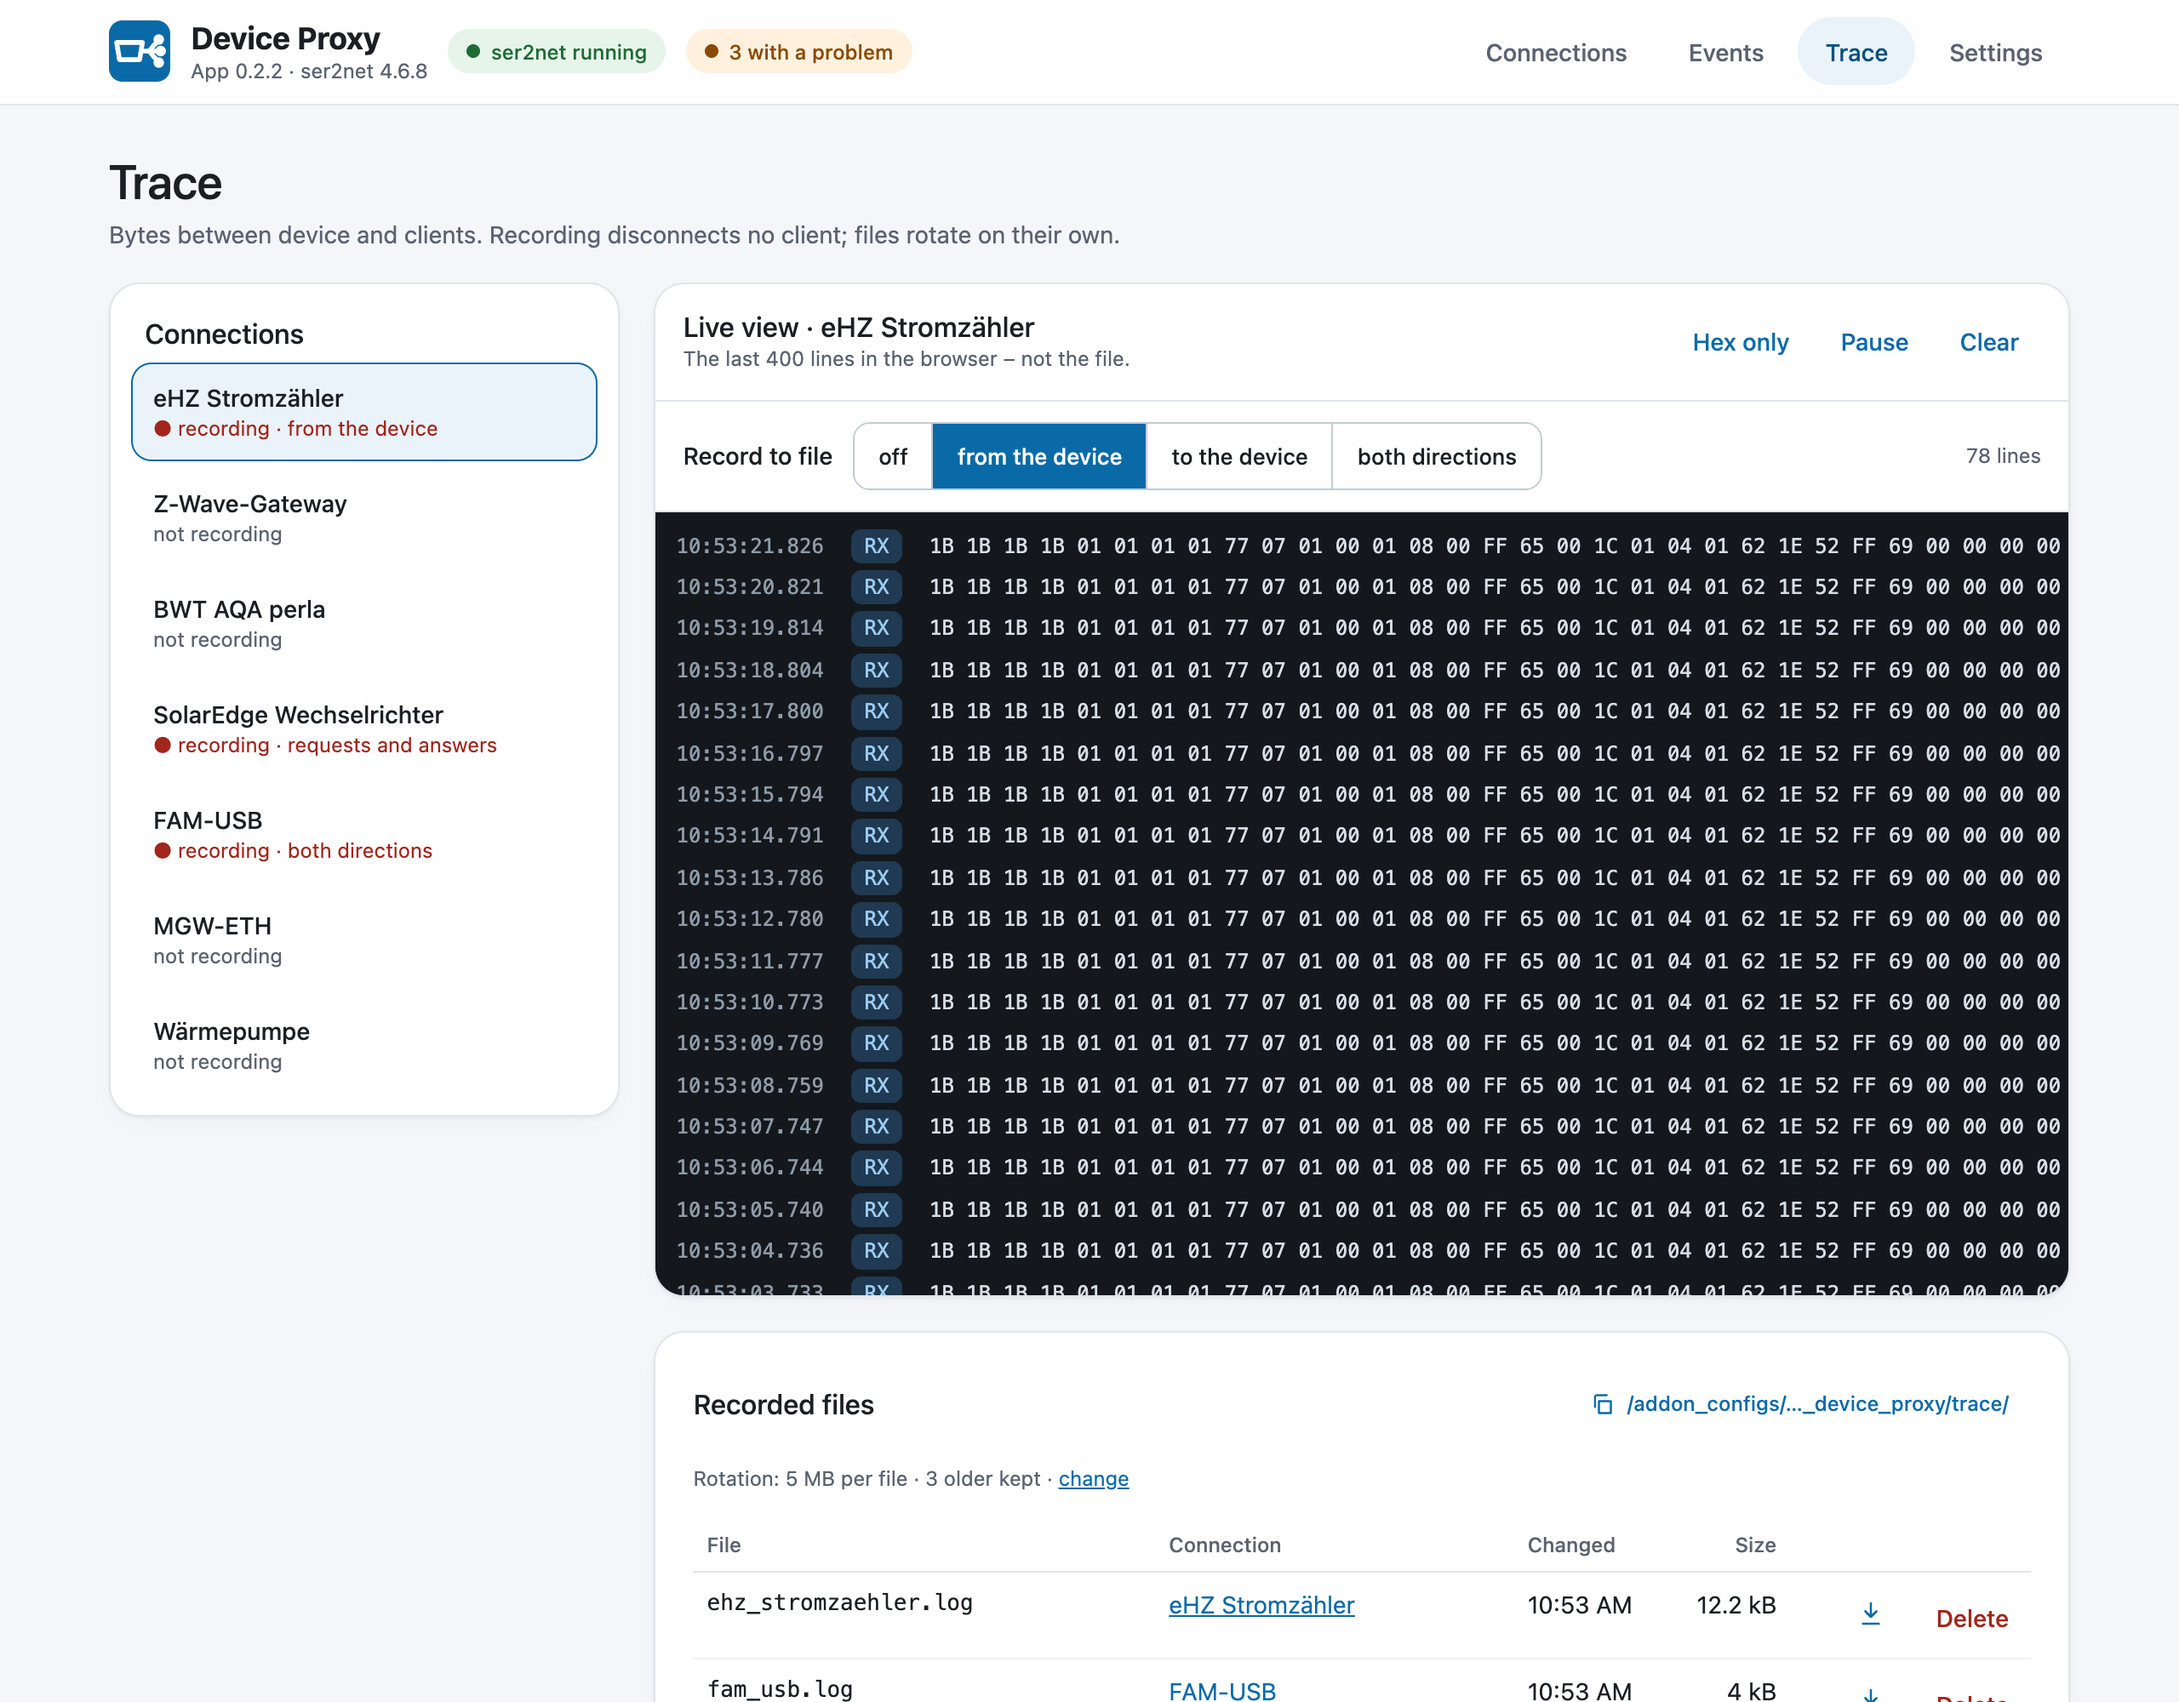
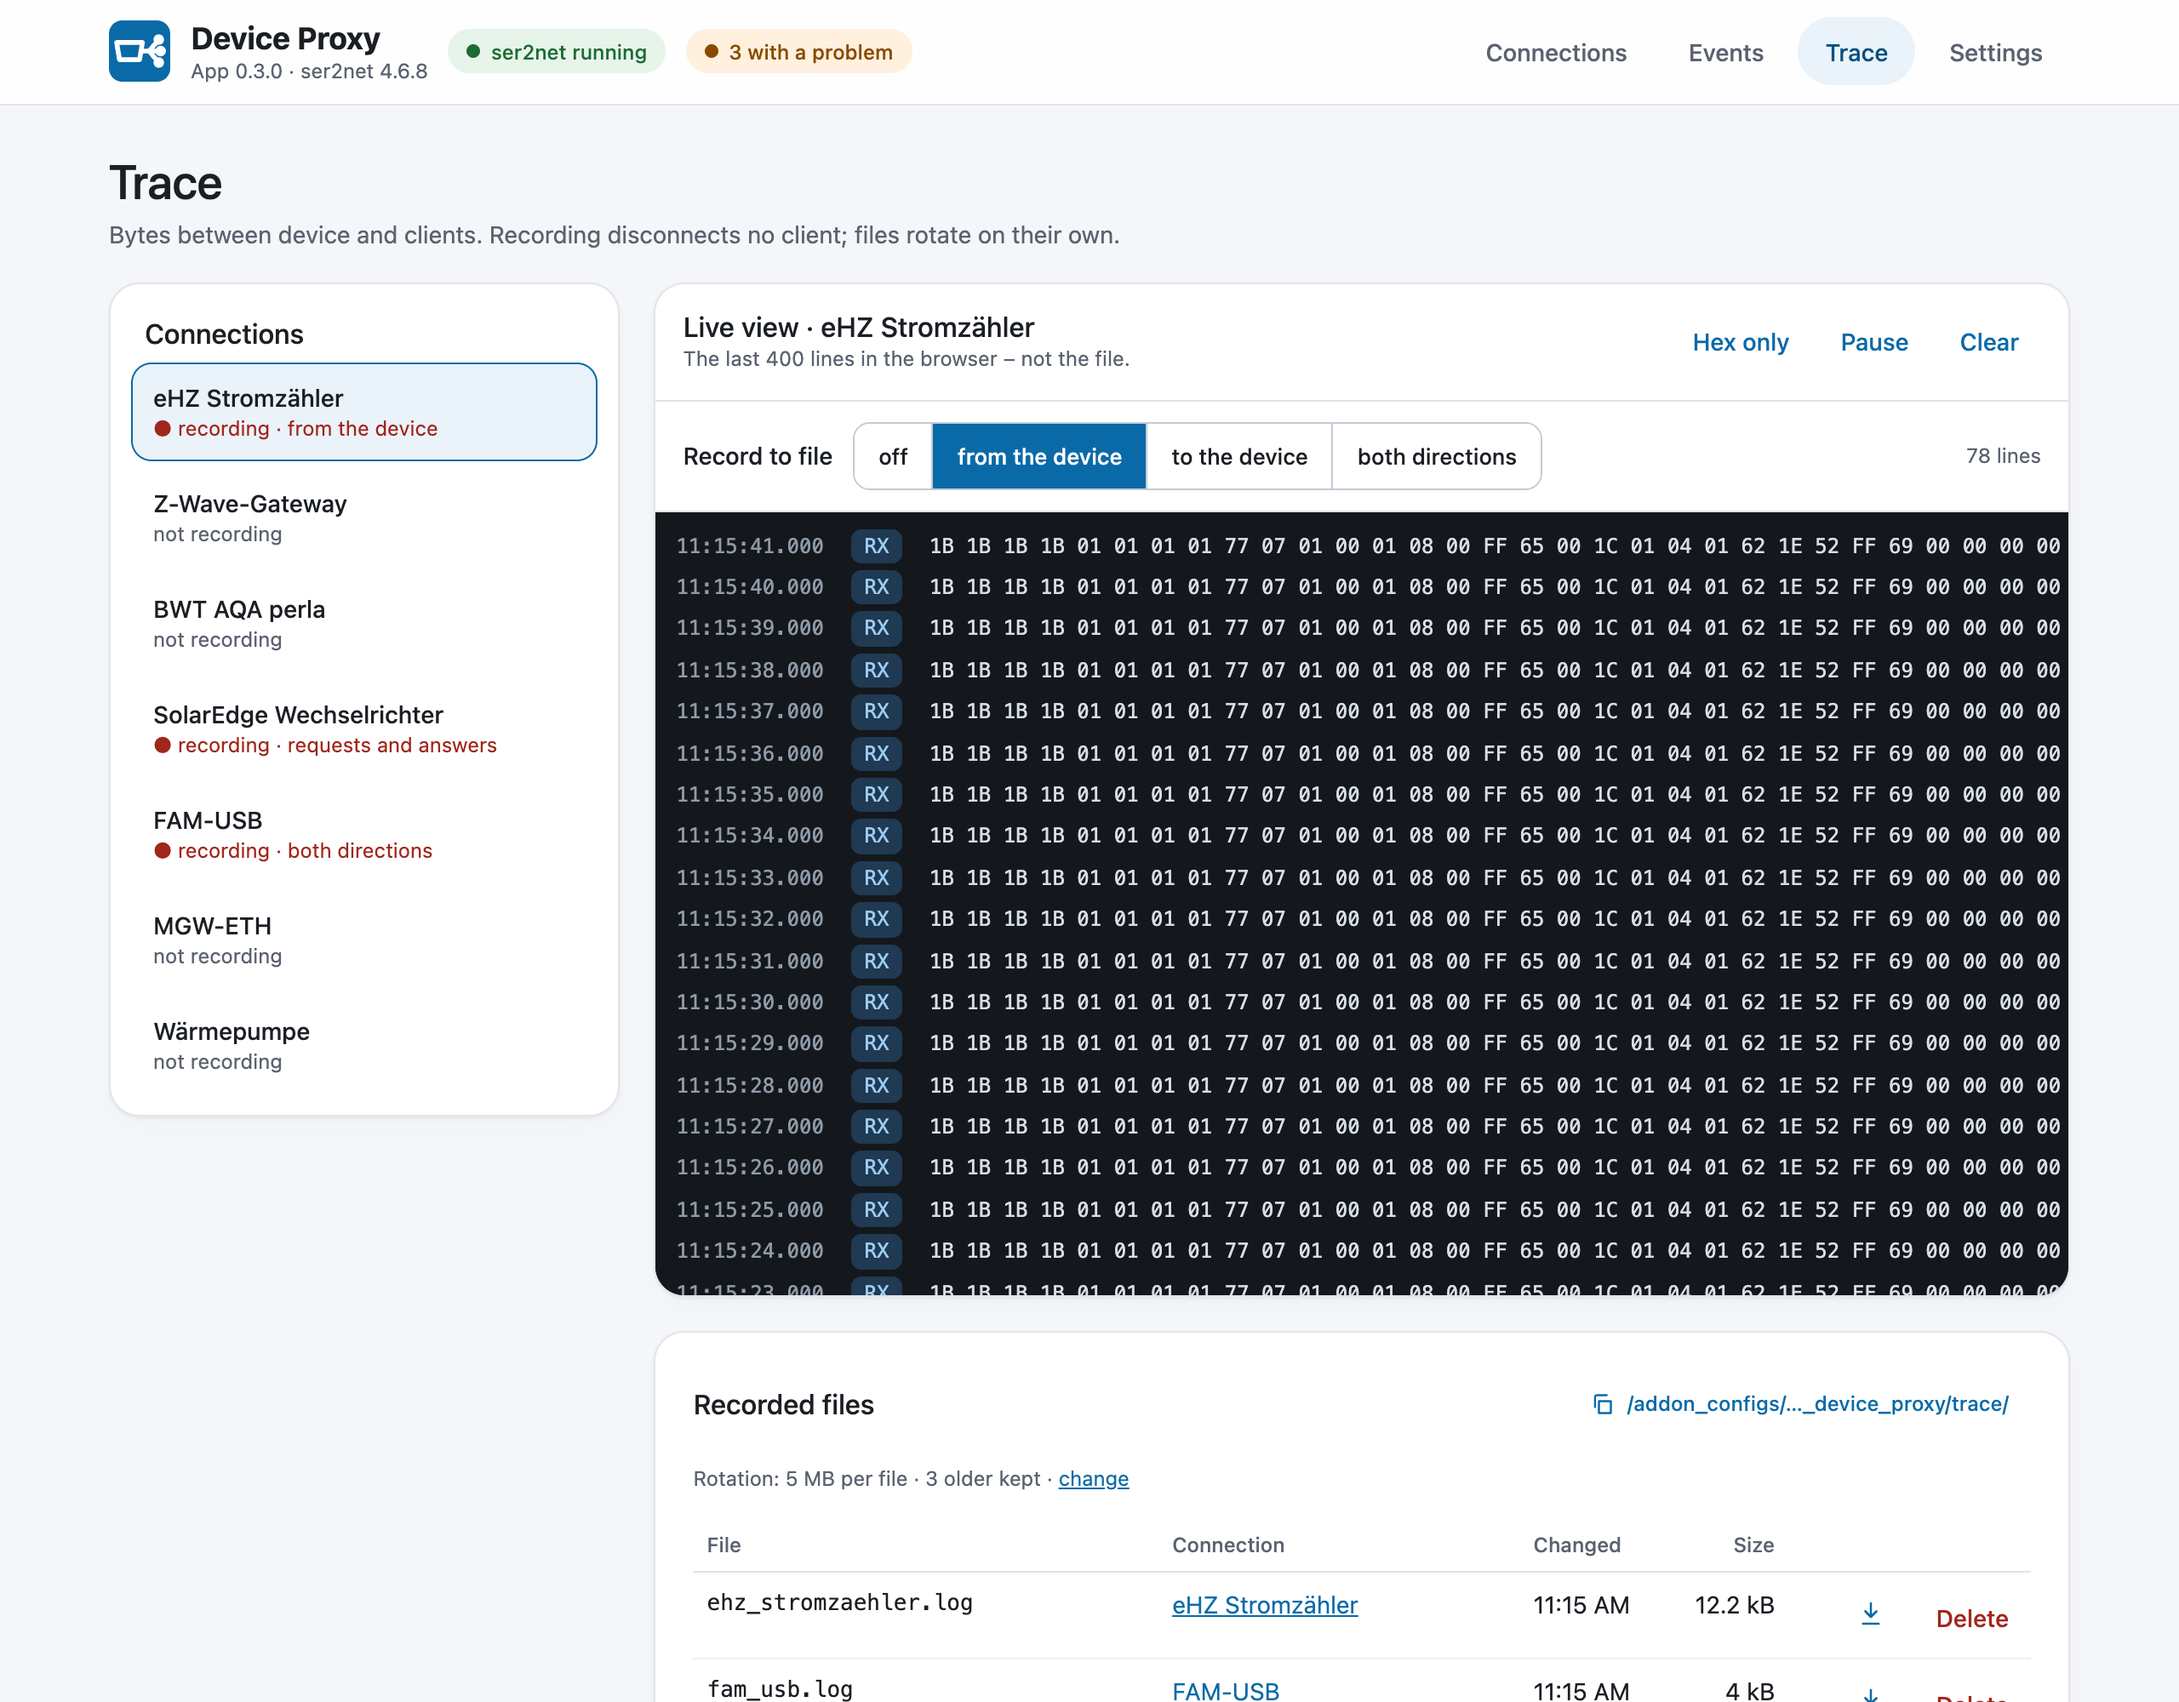
0.3.0: version, changelog heading and screenshots

diff --git a/device_proxy/CHANGELOG.md b/device_proxy/CHANGELOG.md
@@ -1,6 +1,6 @@
 # Changelog
 
-## 0.2.2
+## 0.3.0
 
 - **Home network**: who counts as "LAN" is now a list under **Settings → Network → Allowed
   networks**. The host's own network is predefined, further networks can be added; Home
